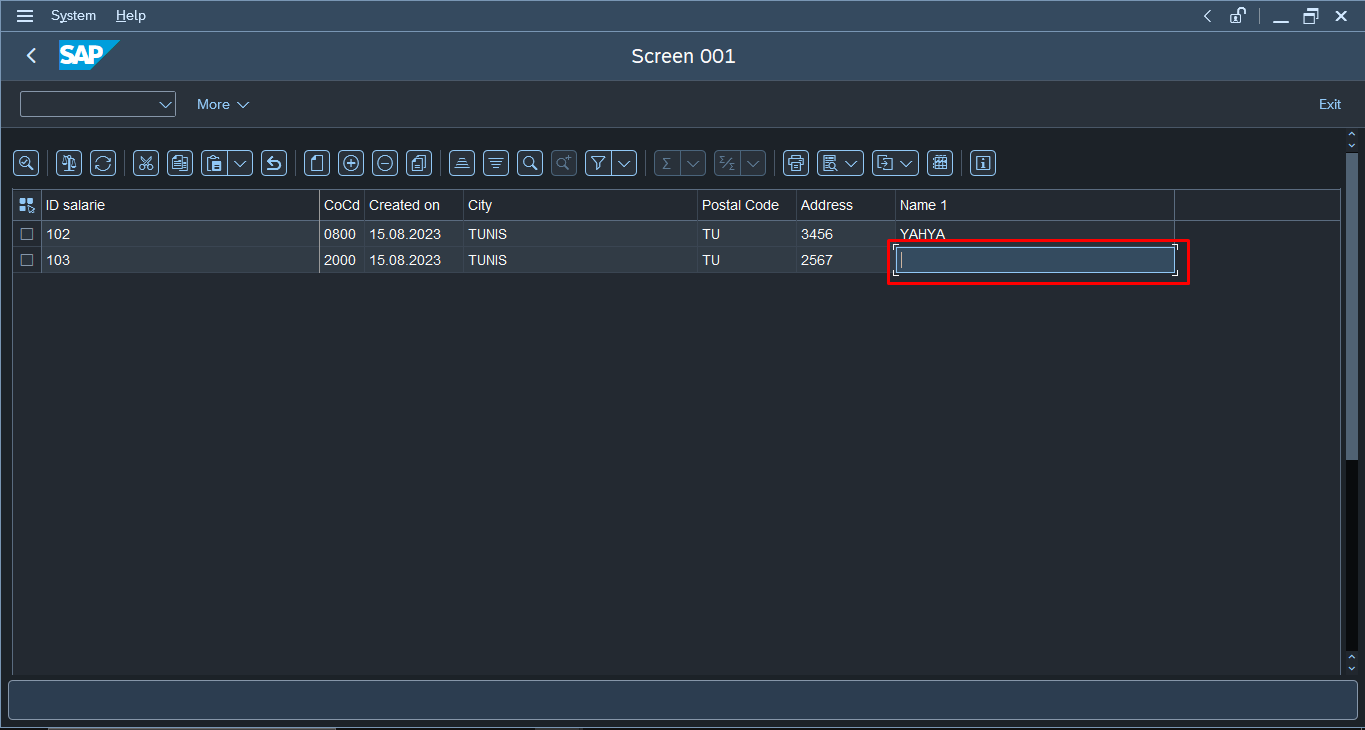
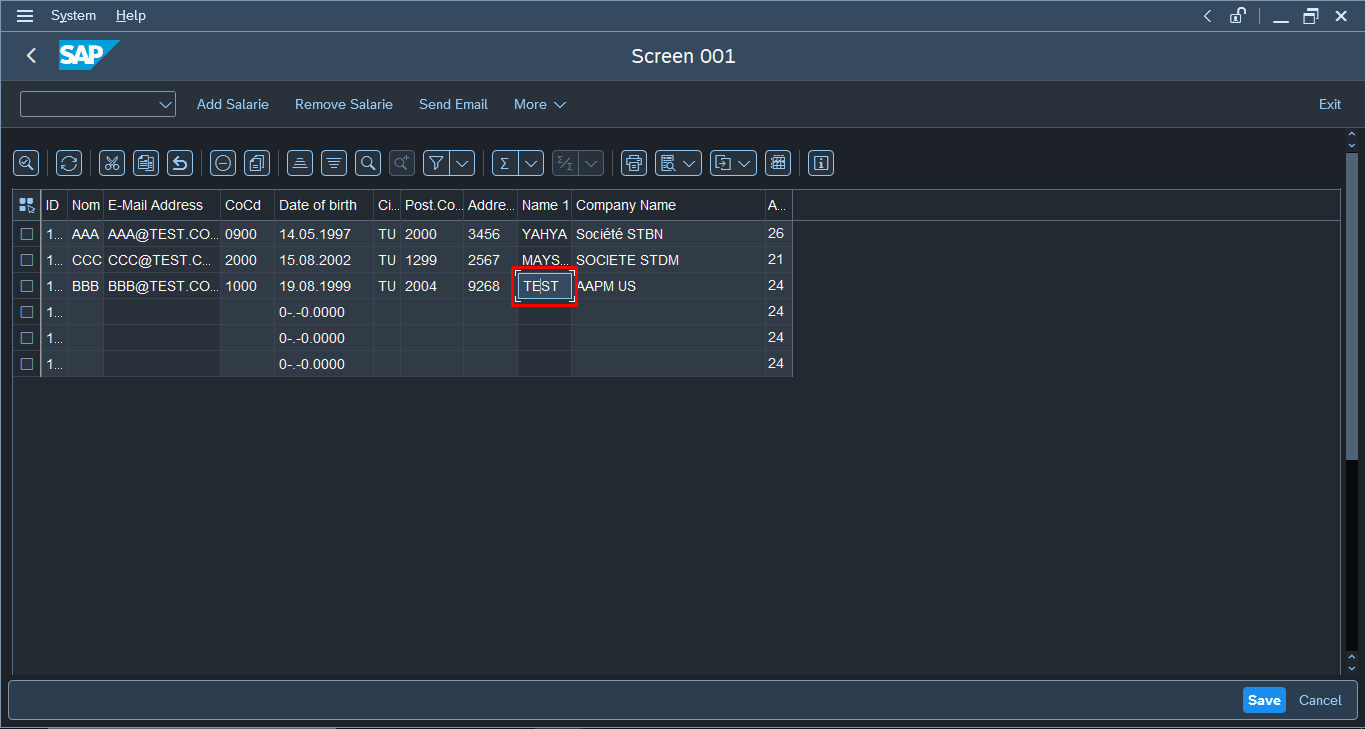
update documentation

diff --git a/Exercice8.md b/Exercice8.md
@@ -1,0 +1,91 @@
+### Exercise 8 – Hotspot
+
+- Context \
+Now that we can see more relevant information in our ALV report, let's make the **Company Name** field clickable to display extra information
+
+- Problem \
+Add a **Hotspot** to the **Company Name** field
+    - Hints
+        <details>
+        <summary>Show hints</summary>
+
+        * Enable the Hotspot field of the **Company Name** column
+
+        * Make a class that will handle the click event and implement it
+
+        </details>
+
+- Solution 
+    <details>
+    <summary>Show solution</summary>
+
+    First, let's enable the hotspot click field of our **Company Name** column in our **DISPLAY_DATA** form
+
+    ```abap
+    " enable hotspot for company name field
+    LOOP AT GT_FCAT1 INTO GS_FCAT1 WHERE FIELDNAME = 'BUTXT'.
+        GS_FCAT1-HOTSPOT = 'X'.
+        MODIFY GT_FCAT1 FROM GS_FCAT1 TRANSPORTING HOTSPOT WHERE FIELDNAME = 'BUTXT'.
+    ENDLOOP.
+    ```
+    </details>
+
+    Our **Company Name** column should now be clickable
+
+  ![Clickable](https://github.com/Fabeure/ABAP-Initiation/blob/main/Images/Clickable.png?raw=true)
+
+  But nothing happens when we click on a company's name.
+  We need to create a class that will handle these hotspot clicks.
+
+
+  Let's start off by declaring the class and the instance reference in our main program
+
+
+  ```abap
+    CLASS LCL_EVENT_HANDLER DEFINITION FINAL.
+    PUBLIC SECTION.
+
+        METHODS:HANDLE_HOTSPOT_CLICK
+            FOR EVENT HOTSPOT_CLICK OF CL_GUI_ALV_GRID.
+
+
+    ENDCLASS. "lcl_event_handler DEFINITION
+    DATA: GR_EVENT_HANDLER TYPE REF TO LCL_EVENT_HANDLER.
+
+  ```	
+
+  Let's now implement this class in our PBO module
+
+  ```abap
+    *----------------------------------
+    * Event Handler Class implimentation
+    *
+    CLASS LCL_EVENT_HANDLER IMPLEMENTATION.
+
+    METHOD HANDLE_HOTSPOT_CLICK.
+        MESSAGE 'CLICKED' TYPE 'S'. "you can put any treatment here
+        "CALL TRANSACTION 'ZEXO_DISPLAY_BUKRS_ALV'.
+    ENDMETHOD. "handle_hotspot_click
+
+
+    ENDCLASS. "lcl_event_handler IMPLEMENTATION
+  ```
+
+  Finally, let's add the hotspot click handler to our **GRID001** instance in our **DISPLAY_DATA** form
+
+
+  ```abap
+    CREATE OBJECT GR_EVENT_HANDLER .
+    SET HANDLER GR_EVENT_HANDLER->HANDLE_HOTSPOT_CLICK FOR GRID0100.
+  ```
+
+  Our code should now work and when clicking on a company's game we get the following result
+
+  ![Clicked](https://github.com/Fabeure/ABAP-Initiation/blob/main/Images/Clicked.png?raw=true)
+
+
+
+
+
+
+

diff --git a/README.md b/README.md
@@ -63,36 +63,31 @@
 
      - Objectives
 
-   - **Exercise 8 - Data Management**
-
-     - Objectives
-     - Constraints
-
-   - **Exercise 9 – Hotspot**
+   - **Exercise 8 – Hotspot**
 
      - Objectives
 
-   - **Exercise 10 - PDF Printing**
+   - **Exercise 9 - PDF Printing**
 
      - Objectives
      - Useful Information
      - Links
 
-   - **Exercise 11 - Sending PDF Document by Email**
+   - **Exercise 10 - Sending PDF Document by Email**
 
      - Objectives
      - Useful Information
 
-   - **Exercise 12- Selection Screen Enhancement**
+   - [**Exercise 11 - Selection Screen Enhancement**](https://github.com/Fabeure/ABAP-Initiation/blob/main/Exercice11.md)
 
      - Objectives
      - Useful Information
 
-   - **Exercise 13 - Writing a File**
+   - **Exercise 12 - Writing a File**
 
      - Objectives
 
-   - **Exercise 14 - Extended Program Control**
+   - **Exercise 13 - Extended Program Control**
 
 4. **Glossary**
 
